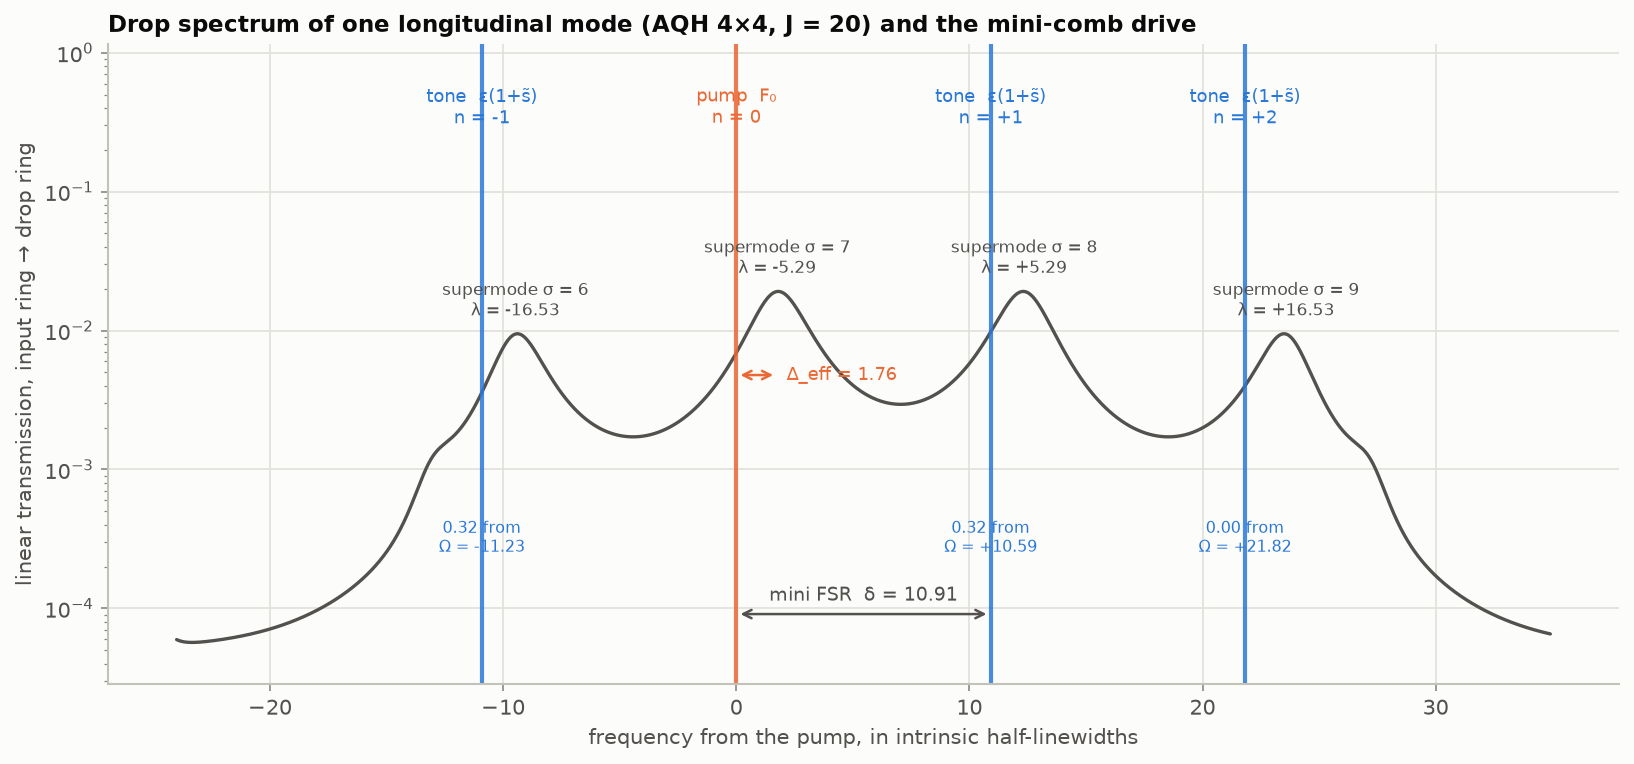
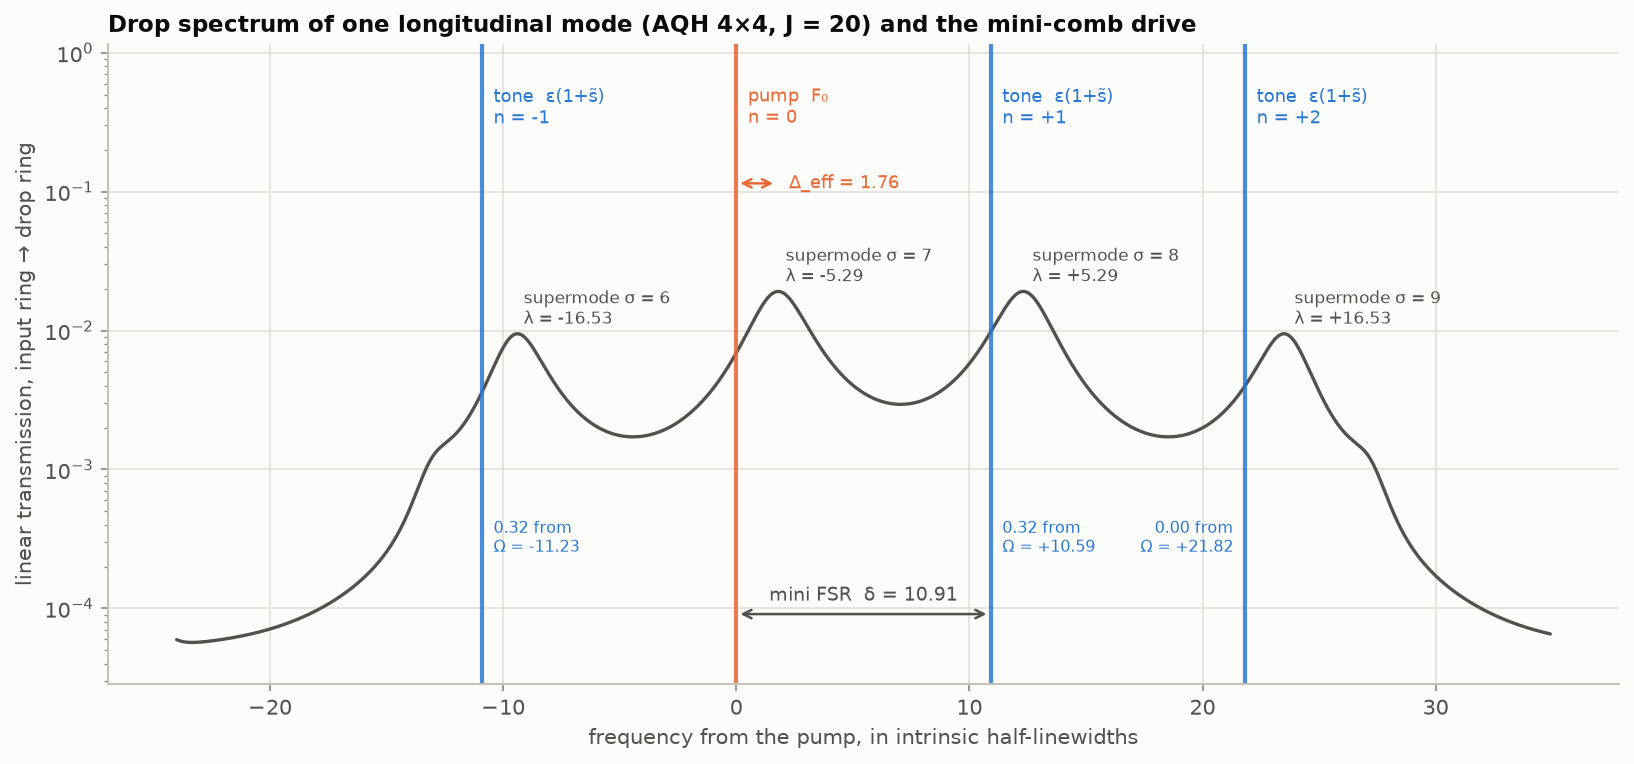
figure: labels of the mini-comb drive beside their lines, not across them

diff --git a/characterization/05_mini_comb_drive.py b/characterization/05_mini_comb_drive.py
@@ -44,19 +44,21 @@ ax.plot(w, T, color=ps.INK2, lw=1.6)
 ax.set_yscale("log"); ax.set_ylim(T.min() * 0.5, T.max() * 60)
 top = T.max()
 for s in (6, 7, 8, 9):
-    ax.annotate(f"supermode σ = {s}\nλ = {lam[s]:+.2f}", (peak(s), T[np.abs(w - peak(s)).argmin()]), xytext=(0, 9), textcoords="offset points",
-                ha="center", fontsize=8, color=ps.INK2)
+    ax.annotate(f"supermode σ = {s}\nλ = {lam[s]:+.2f}", (peak(s), T[np.abs(w - peak(s)).argmin()]), xytext=(4, 5), textcoords="offset points",
+                ha="left", fontsize=8, color=ps.INK2)       # every label sits beside its line or peak, never across one
 for k, col, lab in [(0, ps.ORANGE, "pump  F₀\nn = 0")] + [(int(m), ps.BLUE, f"tone  ε(1+s̃)\nn = {int(m):+d}") for m in n]:
     ax.axvline(k * delta, color=col, lw=2, alpha=0.85)
-    ax.text(k * delta, top * 30, lab, color=col, ha="center", va="top", fontsize=8.5)
+    ax.text(k * delta + 0.5, top * 30, lab, color=col, ha="left", va="top", fontsize=8.5)
 y = T.min() * 1.6                                           # the mini FSR between the pump and tone n = +1
 ax.annotate("", (delta, y), (0, y), arrowprops=dict(arrowstyle="<->", color=ps.INK2, lw=1.2))
 ax.text(delta / 2, y * 1.25, f"mini FSR  δ = {delta:.2f}", ha="center", fontsize=9, color=ps.INK2)
-y = T.max() * 0.25                                          # the pump sits `target` below its supermode
+y = top * 6                                                 # the pump sits `target` below its supermode
 ax.annotate("", (peak(sp), y), (0, y), arrowprops=dict(arrowstyle="<->", color=ps.ORANGE, lw=1.2))
-ax.text(peak(sp) + 0.4, y, f"Δ_eff = {target}", ha="left", va="center", fontsize=8.5, color=ps.ORANGE)
+ax.text(peak(sp) + 0.5, y, f"Δ_eff = {target}", ha="left", va="center", fontsize=8.5, color=ps.ORANGE)
 for m, s in zip(n, tones):                                  # the tones: `target` below their supermodes, up to the fit error
-    ax.text(m * delta, T.min() * 4.5, f"{abs(m * delta - (lam[s] - lam_p)):.2f} from\nΩ = {lam[s] - lam_p:+.2f}", ha="center", fontsize=7.5, color=ps.BLUE)
+    right = m != n.max()
+    ax.text(m * delta + (0.5 if right else -0.5), T.min() * 4.5, f"{abs(m * delta - (lam[s] - lam_p)):.2f} from\nΩ = {lam[s] - lam_p:+.2f}",
+            ha="left" if right else "right", fontsize=7.5, color=ps.BLUE)
 ax.set_xlabel("frequency from the pump, in intrinsic half-linewidths"); ax.set_ylabel("linear transmission, input ring → drop ring")
 ax.set_title(f"Drop spectrum of one longitudinal mode (AQH {nx}×{ny}, J = {J:g}) and the mini-comb drive", fontsize=11, loc="left")
 fig.tight_layout()
